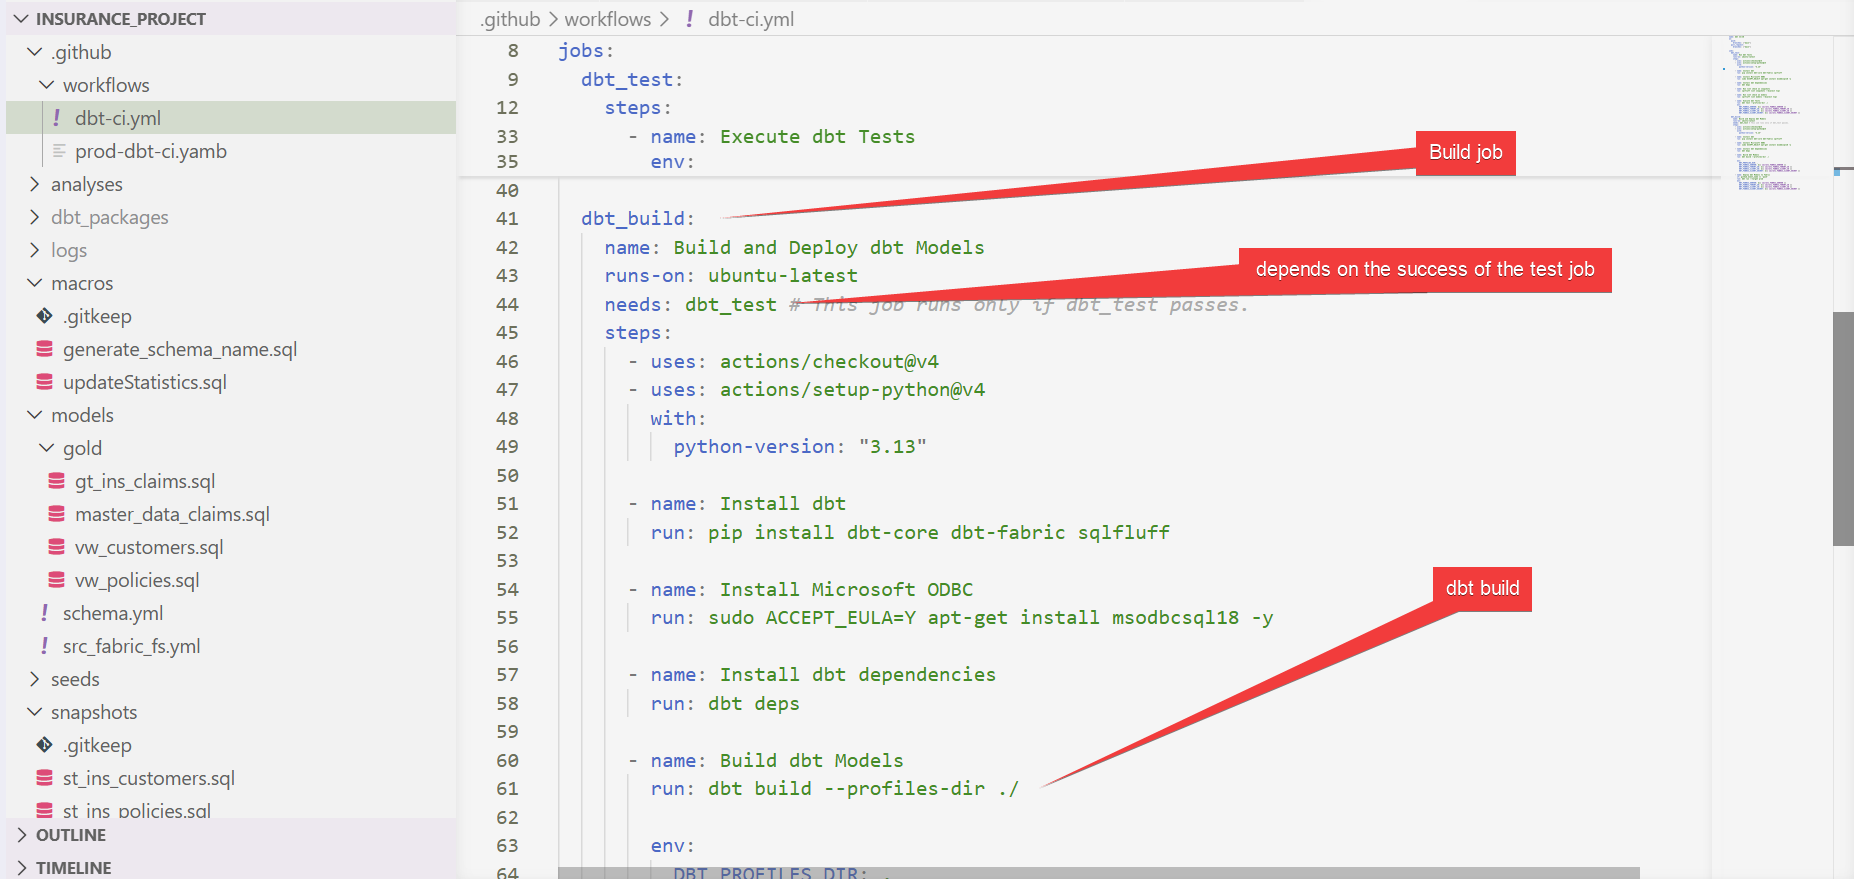
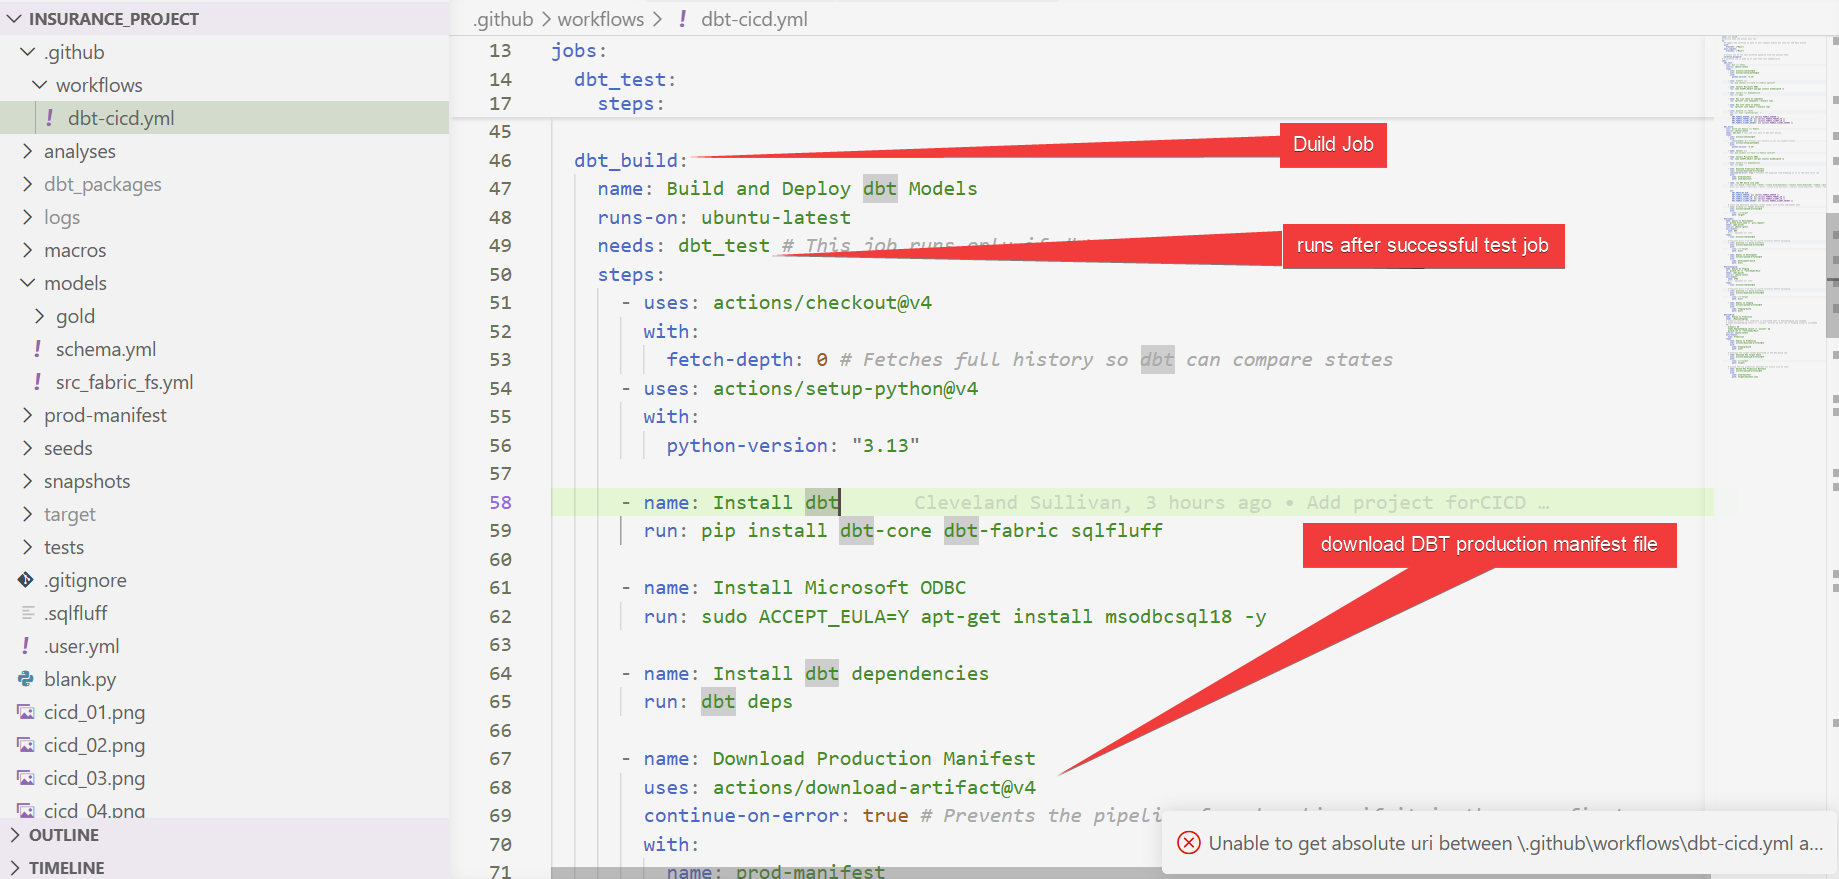
update readme with cicd push images

diff --git a/README.md b/README.md
@@ -1,4 +1,4 @@
-This project was created as supplementary project for the Microsoft Fabric Insurance Project which can be found [here](https://github.com/salano/MS-Fabric-End-to-End-Insurance-Project)
+This Data Build Tool (DBT) Continuous Integration, Continuous Delivery (CI/CD) project was created as supplementary project for the Microsoft Fabric Insurance Project which can be found [here](https://github.com/salano/MS-Fabric-End-to-End-Insurance-Project)
 
 We created a DBT project to validate and transform the data for the silver and gold layers in medallion architecture of the Microsoft Fabric project. It uses the Slowly Changing Dimensio (SCD) type data modelling technique to model the dimension tables in this layer.
 
@@ -23,7 +23,7 @@ In the DBT project we do the following:
   - Test date fields have no future date values
 - Linting test
 
-The DBT projec:
+The DBT project:
 
 ![ALT](dbt_project_01_ann.png)
 ![ALT](dbt_project_02_ann.png)
@@ -44,12 +44,24 @@ We will perform the followin in the pipeline
 ![ALT](sqlfluff_config_01.png)
 ![ALT](sqlfluff_config_02.png)
 
-The CI Pipeline
+The CI/CD Pipeline
 
 ![ALT](cicd_01.png)
 ![ALT](cicd_02.png)
 ![ALT](cicd_03.png)
 ![ALT](cicd_04.png)
+![ALT](cicd_05.png)
+![ALT](cicd_06.png)
+![ALT](cicd_07.png)
+![ALT](cicd_08.png)
+
+In Github, we add environments for development, staging/testing/QA, and production. Each representing the stages of our Continuous Integration, Continuous Delivery pipeline.
+
+![ALT](Github_Environments.png)
+
+We set up environment secrets for each environment. These will take precedents over the repository secrets for each environment and should be specific to the environment.
+
+![ALT](Environment_secrets.png)
 
 We set the repository secret variables to execute the GitHub runner.
 
@@ -57,10 +69,11 @@ We set the repository secret variables to execute the GitHub runner.
 
 On push to main branch. We can see the logs
 
-![AL](cicd_success.png)
-![ALT](cicd_test.png)
-![ALT](cicd_slim_success.png)
+After, the DBT tests and build jobs, we progress to the staging and then the production environments. Ideally, we should protect the production environment and add the appropiate reviewers in a production environment.
 
-Need to update CICD pipeline workflow
+![AL](cicd_push_to_main.png)
+![ALT](cicd_dbt_test.png)
+![ALT](cicd_dbt_run.png)
 
-Push directly to main branch
+On a merge to main branch from a feature branch pull request. We can see the logs
+After, the DBT tests and build jobs, we progress to the developement environment for code merging and review.
